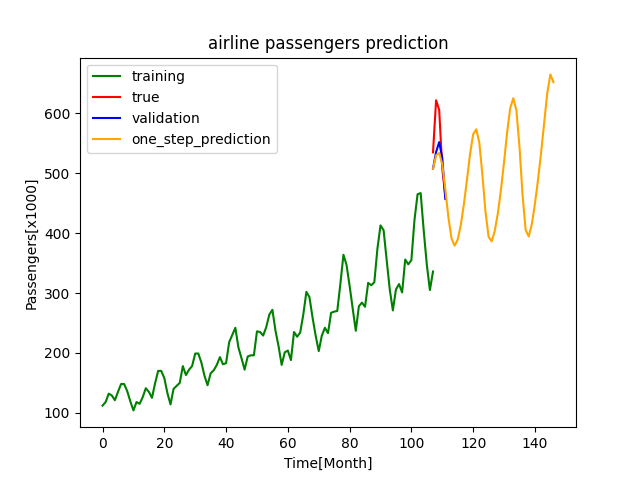
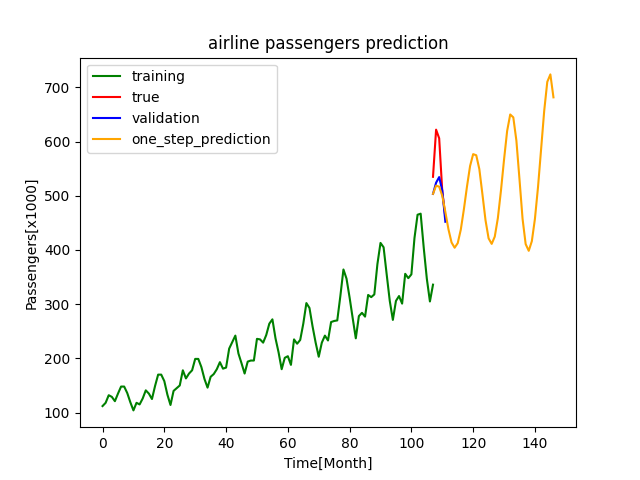
clean up for airline_passengers_forecasting_keras

diff --git a/TimeSeriesPrediction/2_UnivariantTimeSeriesForecast/AirlinePassengers/Keras/airline_passengers_forecasting_keras.py b/TimeSeriesPrediction/2_UnivariantTimeSeriesForecast/AirlinePassengers/Keras/airline_passengers_forecasting_keras.py
@@ -41,15 +41,6 @@ test_inputs, test_targets = create_timeseries(test, lookback)
 train_inputs = np.reshape(train_inputs, (train_inputs.shape[0], train_inputs.shape[1], 1))
 test_inputs = np.reshape(test_inputs, (test_inputs.shape[0], test_inputs.shape[1], 1))
 
-train_targets = np.reshape(train_targets, (train_targets.shape[0], 1))
-test_targets = np.reshape(test_targets, (test_targets.shape[0], 1))
-
-print(train_inputs.shape)
-print(train_targets.shape)
-print(test_inputs.shape)
-print(test_targets.shape)
-
-
 # training scedular learning rate wird angepasst nach x epochs
 # Bidirectionales lernen - Zeitreihe umkehren - https://keras.io/examples/nlp/bidirectional_lstm_imdb/
 # Kompletten daten fürs Training nehmen
@@ -60,7 +51,7 @@ def create_LSTM_model(inputs, targets, lookback):
     #model.add(tf.keras.layers.Dropout)
     model.add(tf.keras.layers.Dense(units=1))
     model.compile(optimizer=tf.keras.optimizers.Adam(0.0001), loss='mean_squared_error')
-    model.fit(inputs, targets, epochs=300, batch_size=1)
+    model.fit(inputs, targets, epochs=200, batch_size=1)
     return model
 
 
@@ -75,7 +66,7 @@ def validation_forecast(model, inputs):
 validation_results = validation_forecast(model, test_inputs)
 
 validation = pd.DataFrame()
-validation["true"] = scaler.inverse_transform([test_targets.flatten()]).flatten()
+validation["true"] = scaler.inverse_transform([test_targets]).flatten()
 validation["validation"] = scaler.inverse_transform([validation_results]).flatten()
 validation.index += airlinePassengers.threshold
 
